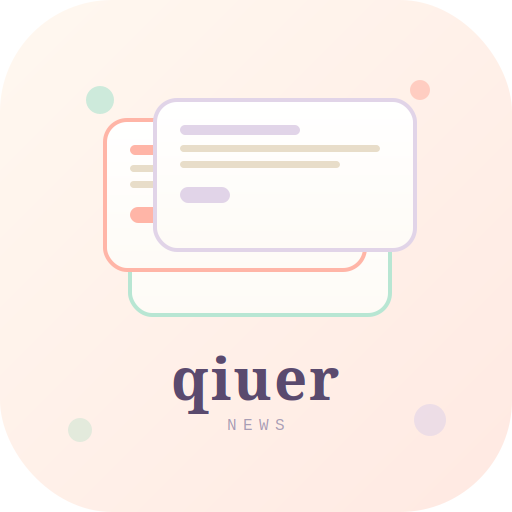
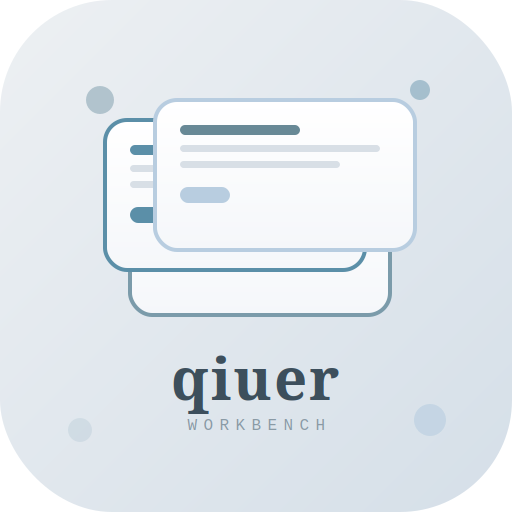
改为科技蓝莫兰迪色系 + 标题改为qiuer的工作台 + 更新图标

diff --git a/index.html b/index.html
@@ -3,26 +3,26 @@
 <head>
 <meta charset="UTF-8">
 <meta name="viewport" content="width=device-width, initial-scale=1.0">
-<title>qiuer的新闻工作台 · Daily News Workbench</title>
+<title>qiuer的工作台 · Daily News Workbench</title>
 <link rel="apple-touch-icon" href="apple-touch-icon.png">
 <meta name="apple-mobile-web-app-capable" content="yes">
 <meta name="apple-mobile-web-app-status-bar-style" content="default">
-<meta name="apple-mobile-web-app-title" content="qiuer新闻">
+<meta name="apple-mobile-web-app-title" content="qiuer工作台">
 <style>
 :root{
-  /* 糖果淡彩 - 参考莫兰迪配色卡，极淡极透 */
-  --bg:#FFF8F0;        /* 极浅暖米白 主背景 */
-  --bg2:#FAF1E4;       /* 略深奶米 次背景 */
+  /* 科技蓝莫兰迪 - 低饱和灰蓝调，冷静专业 */
+  --bg:#EDF0F3;        /* 极浅灰蓝 主背景 */
+  --bg2:#E0E5EA;       /* 略深灰蓝 次背景 */
   --card:#FFFFFF;      /* 纯白 卡片 */
-  --card2:#FEFBF6;     /* 浅奶白 */
-  --accent:#B8E6D3;    /* 薄荷绿 强调色 */
-  --accent2:#9FD9C2;   /* 深一点薄荷绿 */
-  --fg:#5A4A6E;        /* 温柔深紫 主文字 */
-  --fg2:#A89DB5;       /* 浅紫灰 次文字 */
-  --hi:#FFB5A7;        /* 珊瑚粉 高亮 */
-  --hi2:#FF9B8A;       /* 深珊瑚粉 */
-  --border:#F0E8DC;    /* 浅奶米边框 */
-  --border2:#E8DDC9;   /* 略深奶米边框 */
+  --card2:#F5F7FA;     /* 浅灰蓝白 */
+  --accent:#7B9BAA;    /* 灰蓝 强调色 */
+  --accent2:#688996;   /* 深灰蓝 */
+  --fg:#3D4F5C;        /* 深蓝灰 主文字 */
+  --fg2:#8A9AA5;       /* 浅蓝灰 次文字 */
+  --hi:#5B8FA8;        /* 科技蓝 高亮 */
+  --hi2:#4A7A93;       /* 深科技蓝 */
+  --border:#D8DFE6;    /* 浅蓝灰边框 */
+  --border2:#C5CFD8;   /* 略深蓝灰边框 */
   --serif:'Georgia','Noto Serif SC','Songti SC','SimSun',serif;
   --mono:'Courier New','Menlo',monospace;
   --sans:'Helvetica Neue','PingFang SC','Microsoft YaHei',sans-serif;
@@ -31,7 +31,7 @@
 html,body{height:100%}
 body{
   background:
-    radial-gradient(ellipse at top, #FFFDF8 0%, var(--bg) 60%, #FBF3E8 100%);
+    radial-gradient(ellipse at top, #F4F6F9 0%, var(--bg) 60%, #E5EAEF 100%);
   color:var(--fg); font-family:var(--sans); min-height:100vh;
   padding:0;
 }
@@ -39,8 +39,8 @@ body{
 body::before{
   content:""; position:fixed; inset:0; pointer-events:none; z-index:0;
   background-image:
-    repeating-linear-gradient(0deg, rgba(184,230,211,.025) 0 1px, transparent 1px 3px),
-    repeating-linear-gradient(90deg, rgba(255,181,167,.022) 0 1px, transparent 1px 3px);
+    repeating-linear-gradient(0deg, rgba(123,155,170,.022) 0 1px, transparent 1px 3px),
+    repeating-linear-gradient(90deg, rgba(91,143,168,.02) 0 1px, transparent 1px 3px);
 }
 .app{position:relative; z-index:1; max-width:1200px; margin:0 auto; padding:24px 20px 60px}
 
@@ -57,7 +57,7 @@ header{border-bottom:2px solid var(--border); padding-bottom:18px; margin-bottom
 
 /* ===== 工具栏 ===== */
 .toolbar{
-  background:linear-gradient(180deg, rgba(255,255,255,.7), rgba(254,251,246,.5));
+  background:linear-gradient(180deg, rgba(255,255,255,.7), rgba(245,247,250,.5));
   border:1px solid var(--border); border-radius:14px;
   padding:14px; margin-bottom:22px;
   display:flex; gap:12px; flex-wrap:wrap; align-items:center;
@@ -65,32 +65,32 @@ header{border-bottom:2px solid var(--border); padding-bottom:18px; margin-bottom
 .field{display:flex; flex-direction:column; gap:4px}
 .field label{font-size:10px; color:var(--fg2); font-family:var(--mono); letter-spacing:1px; text-transform:uppercase}
 .field input[type=text], .field input[type=date], .field select{
-  background:#FFFEFB; border:1px solid var(--border2); border-radius:8px;
+  background:#FBFCFD; border:1px solid var(--border2); border-radius:8px;
   color:var(--fg); padding:8px 10px; font-size:13px; font-family:var(--sans);
   outline:none; transition:border-color .15s, box-shadow .15s;
 }
-.field input:focus, .field select:focus{border-color:var(--accent); box-shadow:0 0 0 3px rgba(184,230,211,.4)}
+.field input:focus, .field select:focus{border-color:var(--accent); box-shadow:0 0 0 3px rgba(123,155,170,.35)}
 .field input[type=date]{color-scheme:light}
 .cat-select{min-width:140px}
 .btns{display:flex; gap:8px; margin-left:auto; flex-wrap:wrap}
 .btn{
-  background:var(--accent); color:#5A4A6E; border:1px solid var(--accent2);
+  background:var(--accent); color:#FFFFFF; border:1px solid var(--accent2);
   border-radius:8px; padding:8px 14px; font-size:13px; cursor:pointer;
   font-family:var(--sans); transition:background .15s, transform .05s;
 }
 .btn:hover{background:var(--accent2)}
 .btn:active{transform:translateY(1px)}
 .btn.ghost{background:transparent; color:var(--fg); border-color:var(--border2)}
-.btn.ghost:hover{background:rgba(184,230,211,.2)}
+.btn.ghost:hover{background:rgba(123,155,170,.18)}
 .btn.hi{background:var(--hi2); border-color:var(--hi2); color:#FFFFFF}
 .btn.hi:hover{background:var(--hi)}
 .cat-chips{display:flex; gap:6px; flex-wrap:wrap}
 .chip{
   font-size:11px; padding:4px 10px; border-radius:14px; cursor:pointer;
-  background:#FFFEFB; border:1px solid var(--border2); color:var(--fg2);
+  background:#FBFCFD; border:1px solid var(--border2); color:var(--fg2);
   user-select:none; transition:all .15s; font-family:var(--mono);
 }
-.chip.on{background:var(--accent); color:#5A4A6E; border-color:var(--accent2)}
+.chip.on{background:var(--accent); color:#FFFFFF; border-color:var(--accent2)}
 
 /* ===== 视图切换 ===== */
 .view-tabs{display:flex; gap:0; margin-bottom:18px; border-bottom:2px solid var(--border2)}
@@ -108,7 +108,7 @@ header{border-bottom:2px solid var(--border); padding-bottom:18px; margin-bottom
   scroll-behavior:smooth;
 }
 .cal-strip::-webkit-scrollbar{height:5px}
-.cal-strip::-webkit-scrollbar-track{background:#FBF3E8; border-radius:3px}
+.cal-strip::-webkit-scrollbar-track{background:#E5EAEF; border-radius:3px}
 .cal-strip::-webkit-scrollbar-thumb{background:var(--accent); border-radius:3px}
 .cal-cell{
   flex:0 0 auto; width:64px; padding:8px 6px; border-radius:12px; cursor:pointer;
@@ -116,20 +116,20 @@ header{border-bottom:2px solid var(--border); padding-bottom:18px; margin-bottom
   position:relative; transition:all .15s;
   display:flex; flex-direction:column; align-items:center; gap:3px;
 }
-.cal-cell:hover{border-color:var(--accent); background:linear-gradient(180deg, #FFFDF8, #F0FAF5)}
+.cal-cell:hover{border-color:var(--accent); background:linear-gradient(180deg, #FCFDFE, #EBF2F6)}
 .cal-cell .dow{font-size:10px; font-family:var(--mono); color:var(--fg2); letter-spacing:1px}
 .cal-cell .num{font-family:var(--serif); font-size:20px; font-weight:700; color:var(--fg); line-height:1}
 .cal-cell .cnt{
-  font-size:9px; font-family:var(--mono); color:#5A4A6E;
+  font-size:9px; font-family:var(--mono); color:#FFFFFF;
   background:var(--accent); padding:1px 6px; border-radius:8px; margin-top:1px;
 }
 .cal-cell.today{
   border-color:var(--hi2);
-  background:linear-gradient(180deg, #FFE9E2, #FFD9CF);
+  background:linear-gradient(180deg, #DDEAF1, #C9DCE8);
 }
 .cal-cell.today .num{color:var(--hi2)}
 .cal-cell.today .dow{color:var(--hi2)}
-.cal-cell.selected{box-shadow:0 0 0 2px var(--accent2) inset; border-color:var(--accent2)}
+.cal-cell.selected{box-shadow:0 0 0 2px var(--hi) inset; border-color:var(--hi)}
 .cal-cell.has-news .num::after{
   content:""; position:absolute; top:7px; right:7px; width:5px; height:5px;
   border-radius:50%; background:var(--hi2);
@@ -150,7 +150,7 @@ header{border-bottom:2px solid var(--border); padding-bottom:18px; margin-bottom
   padding:14px 16px; display:flex; gap:14px; position:relative;
   transition:transform .1s, box-shadow .15s; color:var(--fg);
 }
-.news-card:hover{transform:translateY(-1px); box-shadow:0 8px 22px rgba(184,230,211,.35); border-color:var(--accent)}
+.news-card:hover{transform:translateY(-1px); box-shadow:0 8px 22px rgba(123,155,170,.3); border-color:var(--accent)}
 .news-card .rank{
   font-family:var(--serif); font-size:28px; font-weight:700;
   background:linear-gradient(135deg, var(--hi), var(--hi2));
@@ -168,14 +168,14 @@ header{border-bottom:2px solid var(--border); padding-bottom:18px; margin-bottom
 .news-card .tags{display:flex; gap:8px; flex-wrap:wrap; align-items:center}
 .news-card .tag{
   font-size:10px; font-family:var(--mono); letter-spacing:1px;
-  background:#FAF1E4; color:var(--fg); padding:2px 8px; border-radius:10px;
+  background:#EDF0F3; color:var(--fg); padding:2px 8px; border-radius:10px;
   text-transform:uppercase;
 }
-.news-card .tag.cat{background:var(--accent); color:#5A4A6E}
+.news-card .tag.cat{background:var(--accent); color:#FFFFFF}
 .news-card .src{font-size:11px; color:var(--fg2); font-family:var(--mono)}
 .news-card .fav{
   position:absolute; top:12px; right:14px; cursor:pointer;
-  font-size:18px; color:rgba(90,74,110,.2); background:none; border:none;
+  font-size:18px; color:rgba(61,79,92,.2); background:none; border:none;
   transition:color .15s, transform .15s; line-height:1;
 }
 .news-card .fav:hover{color:var(--hi); transform:scale(1.15)}
@@ -206,9 +206,9 @@ footer .refresh:hover{text-decoration:underline}
 /* 加载提示 */
 .toast{
   position:fixed; bottom:24px; left:50%; transform:translateX(-50%);
-  background:#FFFFFF; border:1px solid var(--hi2); color:var(--fg);
+  background:#FFFFFF; border:1px solid var(--accent2); color:var(--fg);
   padding:10px 18px; border-radius:10px; font-size:13px; z-index:100;
-  box-shadow:0 6px 18px rgba(255,181,167,.3); opacity:0; transition:opacity .25s, transform .25s;
+  box-shadow:0 6px 18px rgba(123,155,170,.3); opacity:0; transition:opacity .25s, transform .25s;
   pointer-events:none;
 }
 .toast.show{opacity:1; transform:translateX(-50%) translateY(-4px)}
@@ -231,8 +231,8 @@ footer .refresh:hover{text-decoration:underline}
   <header>
     <div class="brand">
       <div>
-        <h1>qiuer的新闻工作台</h1>
-        <div class="en">QIUER'S DAILY NEWS · WORKBENCH</div>
+        <h1>qiuer的工作台</h1>
+        <div class="en">QIUER'S WORKBENCH · DAILY NEWS</div>
       </div>
       <div class="meta">
         <div id="todayLabel">—</div>
@@ -348,20 +348,20 @@ const SEED = {
 /* =========================================================
    分类配置
 ========================================================= */
-const CAT_TEXT_COLORS = {
-  "时政":"#7A5A8E","国际":"#3E5A7E","财经":"#3E7A5E","科技":"#3E7A7E",
-  "社会":"#9E5A5E","体育":"#7E3E7A","娱乐":"#9E3E5E","其他":"#7E7A5E"
-};
 const CATEGORIES = ["时政","国际","财经","科技","社会","体育","娱乐","其他"];
 const CAT_COLORS = {
-  "时政":"#E1D4E8",   /* 浅奶紫 */
-  "国际":"#C1DAE7",   /* 浅天蓝 */
-  "财经":"#D7E7D7",   /* 薄荷绿 */
-  "科技":"#D4F0EE",   /* 浅青 */
-  "社会":"#FFE3DF",   /* 浅珊瑚 */
-  "体育":"#EADDE5",   /* 浅粉紫 */
-  "娱乐":"#F5C6C3",   /* 蜜桃粉 */
-  "其他":"#EFEDDF"    /* 浅米黄 */
+  "时政":"#C5D4DE",   /* 浅灰蓝 */
+  "国际":"#B8C9D6",   /* 深一点灰蓝 */
+  "财经":"#C5D8D2",   /* 灰青绿 */
+  "科技":"#B8CDE0",   /* 科技蓝 */
+  "社会":"#D4CFC8",   /* 暖灰 */
+  "体育":"#C8D4C5",   /* 灰绿 */
+  "娱乐":"#D0C8D4",   /* 灰紫蓝 */
+  "其他":"#CCD2D8"    /* 中性灰蓝 */
+};
+const CAT_TEXT_COLORS = {
+  "时政":"#3D5A6E","国际":"#345060","财经":"#3D5E55","科技":"#34506E",
+  "社会":"#5E554A","体育":"#3E5A3E","娱乐":"#554A60","其他":"#4A5560"
 };
 
 /* =========================================================
@@ -561,7 +561,7 @@ function renderCalendar(){
       const cats=new Set(news.map(n=>n.category));
       [...cats].slice(0,3).forEach(c=>{
         const dot=document.createElement('span'); dot.className='dot';
-        dot.style.background=CAT_COLORS[c]||'#8A9A8D';
+        dot.style.background=CAT_COLORS[c]||'#8A9AA5';
         dots.appendChild(dot);
       });
       el.appendChild(dots);
@@ -624,8 +624,8 @@ function renderNewsPanel(dateStr){
     const id = n.id || uid(dateStr, n.rank);
     const isFav = state.fav[id] ? 'on' : '';
     const isRead = state.read[id] ? 'read' : '';
-    const catColor = CAT_COLORS[n.category] || '#EFEDDF';
-    const catTxt = CAT_TEXT_COLORS[n.category] || '#7E7A5E';
+    const catColor = CAT_COLORS[n.category] || '#CCD2D8';
+    const catTxt = CAT_TEXT_COLORS[n.category] || '#4A5560';
     html += `<div class="news-card ${isRead}" data-id="${id}">
       <div class="rank">${n.rank}</div>
       <div class="body">
@@ -701,8 +701,8 @@ function doSearch(){
     const id = n.id || uid(n.date, n.rank);
     const isFav = state.fav[id] ? 'on' : '';
     const isRead = state.read[id] ? 'read' : '';
-    const catColor = CAT_COLORS[n.category] || '#EFEDDF';
-    const catTxt = CAT_TEXT_COLORS[n.category] || '#7E7A5E';
+    const catColor = CAT_COLORS[n.category] || '#CCD2D8';
+    const catTxt = CAT_TEXT_COLORS[n.category] || '#4A5560';
     const [y,mm,dd] = n.date.split('-');
     return `<div class="news-card ${isRead}" data-id="${id}">
       <div class="rank">${n.rank}</div>
